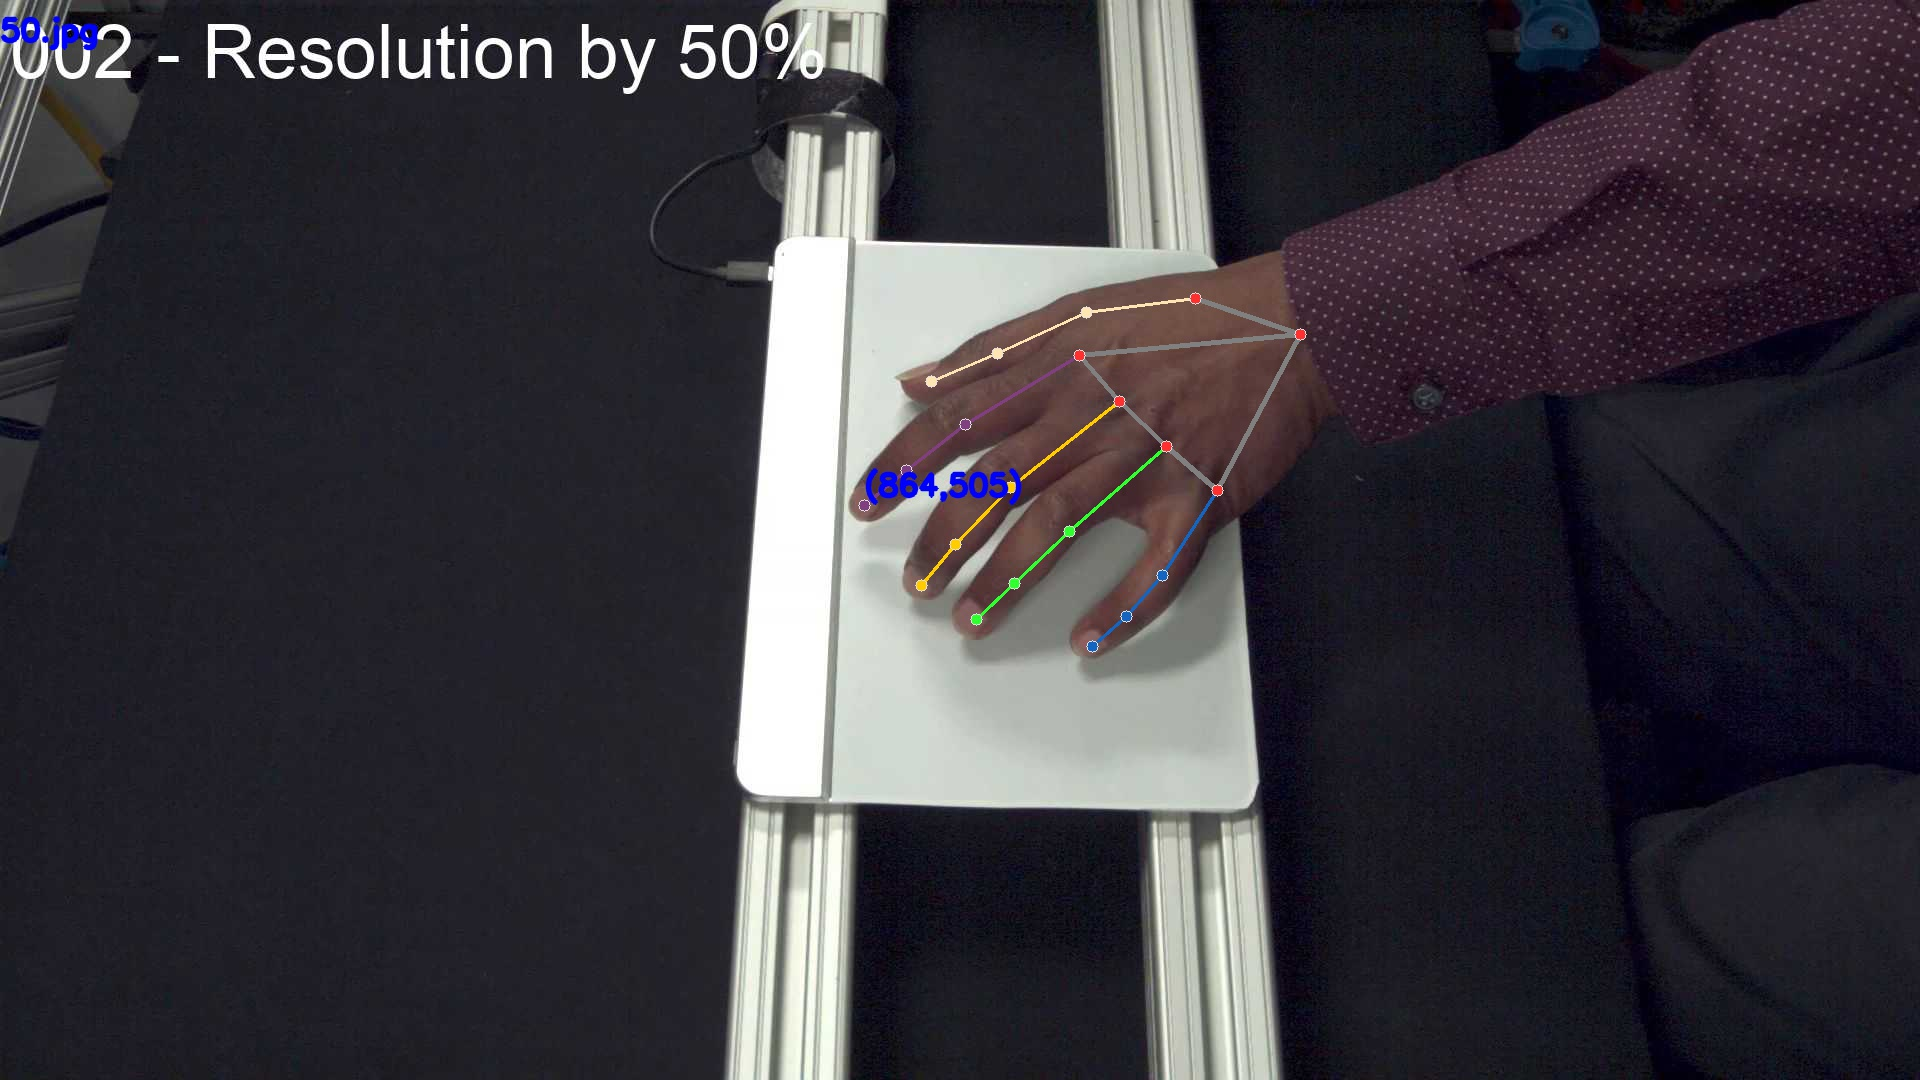
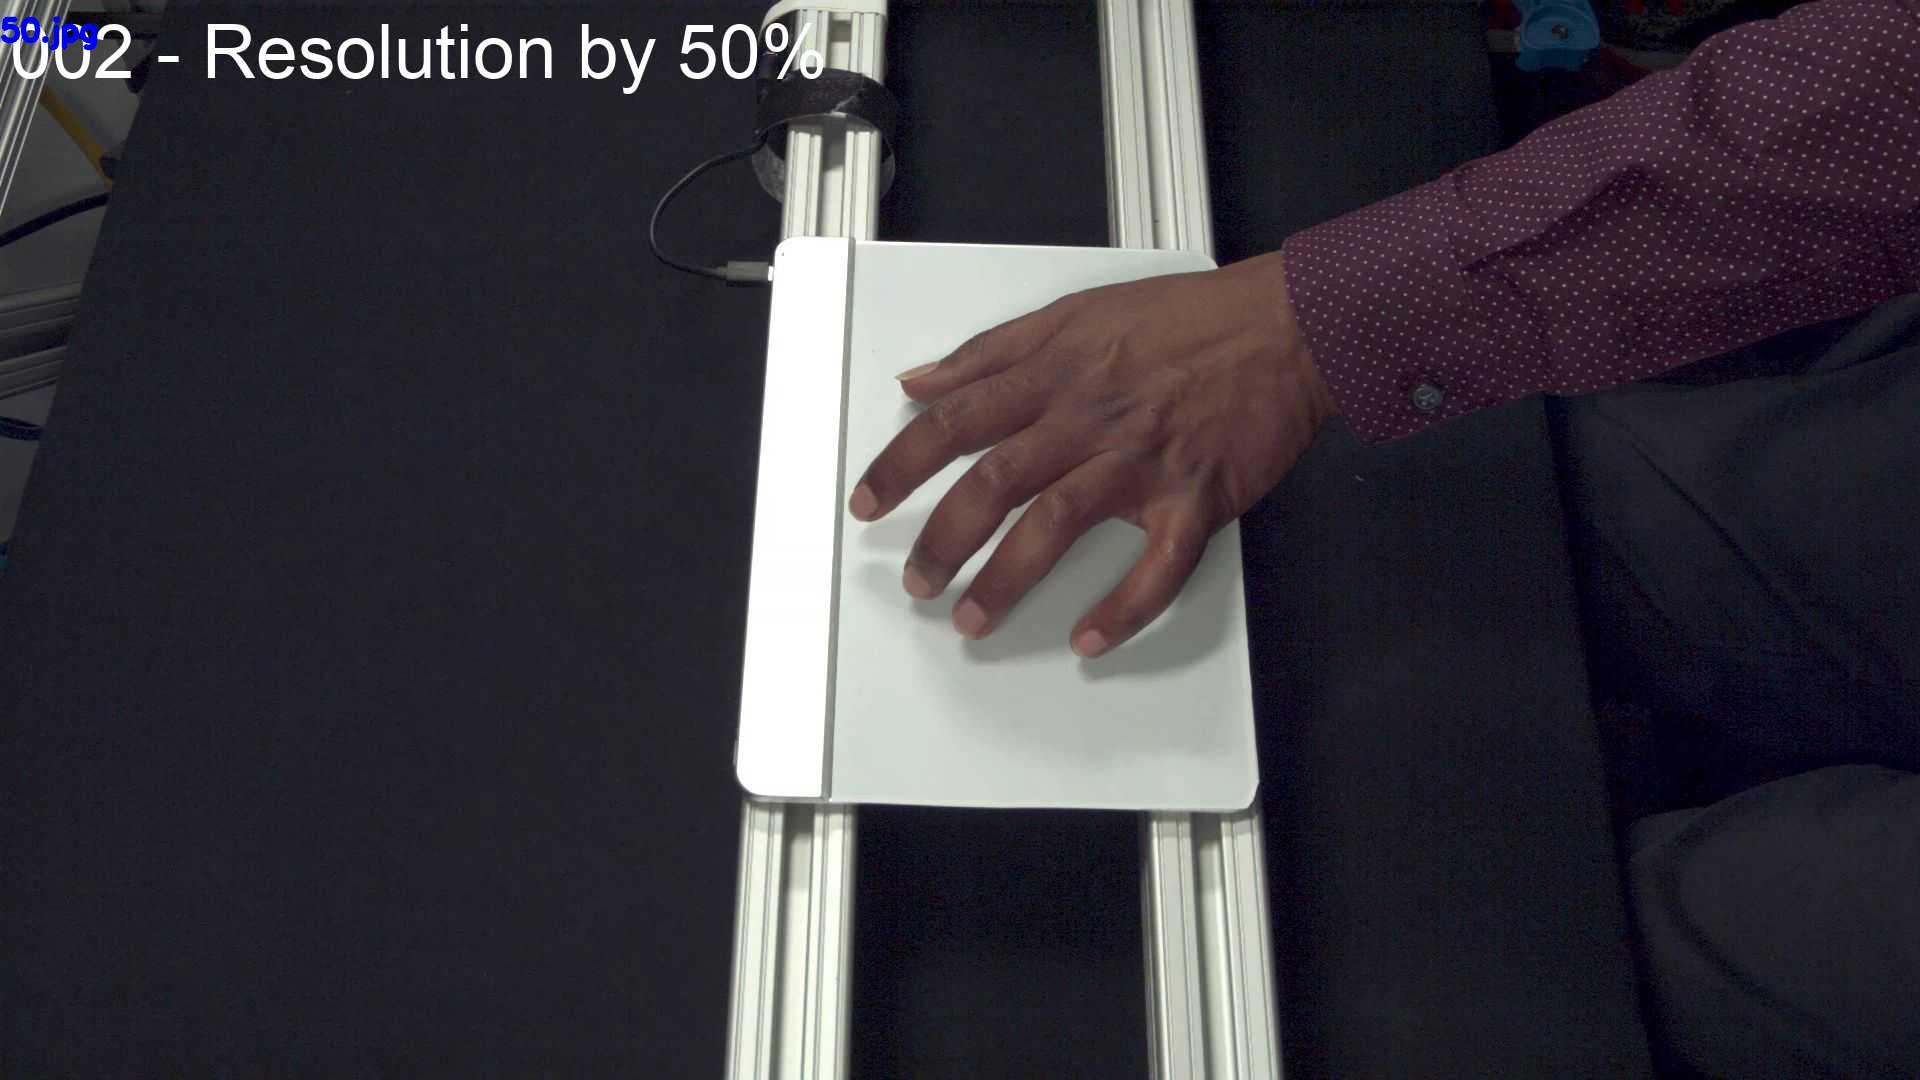
Automatic Commit

diff --git a/testingPILRotate.py b/testingPILRotate.py
@@ -24,26 +24,16 @@ print(os.getcwd())
 
 mainData = [{'x': 0.67807657, 'y': 0.20800887, 'z': 5.914594e-08}, {'x': 0.6262265, 'y': 0.17171708, 'z': -0.008353886}, {'x': 0.5771074, 'y': 0.16875657, 'z': -0.016691158}, {'x': 0.53960544, 'y': 0.19867118, 'z': -0.022496894}, {'x': 0.5200173, 'y': 0.24284497, 'z': -0.029544042}, {'x': 0.60045314, 'y': 0.1998046, 'z': -0.040305816}, {'x': 0.5561593, 'y': 0.24724272, 'z': -0.055317394}, {'x': 0.5310527, 'y': 0.2762247, 'z': -0.061918586}, {'x': 0.51013184, 'y': 0.2974146, 'z': -0.06583886}, {'x': 0.6218219, 'y': 0.24165823, 'z': -0.042312164}, {'x': 0.57844573, 'y': 0.29860744, 'z': -0.057358146}, {'x': 0.5465466, 'y': 0.3352823, 'z': -0.06409986}, {'x': 0.52153265, 'y': 0.3592567, 'z': -0.07026574}, {'x': 0.63791025, 'y': 0.2769149, 'z': -0.042803846}, {'x': 0.6006995, 'y': 0.33498996, 'z': -0.054603003}, {'x': 0.5707777, 'y': 0.36874065, 'z': -0.05960848}, {'x': 0.54510313, 'y': 0.3890803, 'z': -0.064214505}, {'x': 0.6496781, 'y': 0.30460906, 'z': -0.043253858}, {'x': 0.625367, 'y': 0.36255825, 'z': -0.054052617}, {'x': 0.6050887, 'y': 0.39506626, 'z': -0.059133682}, {'x': 0.58624977, 'y': 0.41754797, 'z': -0.06308594}]
 file = "augmentedImgs/rotatedImg-45/001-rotatedImg-45.jpg"
+file = "random_images/001.jpg"
 print(file)
 
 # create a new image and draw the rotated point on it
 image = Image.new("RGB", (width, height), (255, 255, 255))
-#image = Image.open(file)
+image = Image.open(file)
 draw = ImageDraw.Draw(image)
 print(image)
+size = 15
 
-import base64
-
-with open(file, "rb") as image_file:
-    encoded_string = base64.b64encode(image_file.read()).decode()
-    
-with open("image.txt", "w") as text_file:
-    text_file.write(encoded_string)
-
-
-
-"""
-size = 25
 for point in mainData:
     rotated_x, rotated_y = rotate_point(point['x'], point['y'], width, height)
     origin_x, origin_y = point['x'] * width, point['x'] * height
@@ -52,8 +42,6 @@ for point in mainData:
     draw.ellipse((rotated_x-size, rotated_y-size, rotated_x+size, rotated_y+size), fill=(0, 0, 255))
     draw.ellipse((origin_x-size, origin_y-size, origin_x+size, origin_y+size), fill=(255, 0, 0))
 
-"""
-path = Path("output.png")
-image.save(path)
+image.save("output.png")
 print("D")
 

diff --git a/MediaPipe.py b/MediaPipe.py
@@ -70,6 +70,11 @@ for imgGroup in allImagesPathGrouped:
                 continue
             image_height, image_width, _ = image.shape
             annotated_image = image.copy()
+            if augmentType == "rotatedImg-45" or augmentType == "rotatedImg-90" or augmentType == "flippedImg":
+                print("THE THING --------------")
+                print(augmentType)
+                print(results.multi_hand_landmarks)
+            """
             for hand_landmarks in results.multi_hand_landmarks:
                 #print('hand_landmarks:', hand_landmarks)
                 if augmentType == "rotatedImg-45" or augmentType == "rotatedImg-90" or augmentType == "flippedImg":
@@ -77,10 +82,10 @@ for imgGroup in allImagesPathGrouped:
                     print("\tChanged------------" + augmentType + "-------")
                     print(file)
                     print(dictLandmark['landmark'])
-                    ct = 0
-                    for point in dictLandmark['landmark']:
-                        hand_landmarks.landmark[count].x, hand_landmarks.landmark[count].x = changePoint(augmentType, point['x'], point['y'], normalized=True)
-                        ct+=1
+                    #ct = 0
+                    #for point in dictLandmark['landmark']:
+                    #    hand_landmarks.landmark[count].x, hand_landmarks.landmark[count].x = changePoint(augmentType, point['x'], point['y'], normalized=True)
+                    #    ct+=1
                     #print(dictLandmark['landmark'][0])
                     #break
                     #print(hand_landmarks.landmark[0].x)
@@ -110,7 +115,9 @@ for imgGroup in allImagesPathGrouped:
                 #for hand_landmarks in results.multi_hand_landmarks:
                 xTxt = int(hand_landmarks.landmark[mp_hands.HandLandmark.INDEX_FINGER_TIP].x * image_width)
                 yTxt = int(hand_landmarks.landmark[mp_hands.HandLandmark.INDEX_FINGER_TIP].y * image_height)
-            
+            """
+            xTxt = 0
+            yTxt = 0
             xTipP, yTipP = changePoint(augmentType, xTxt, yTxt)
             
             tipFingerNumbers.update({augmentType : (xTipP, yTipP)})
